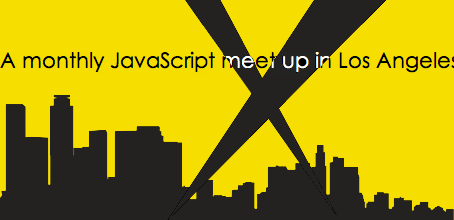
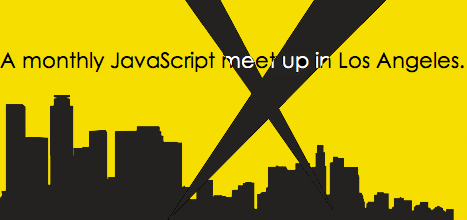
Fixed Contact page image cut-off, removed canceled speaker from Past Events

diff --git a/past-events.html b/past-events.html
@@ -92,20 +92,6 @@
   
     <!-- LIGHTNING SPEAKER GOES HERE -->
     <div class="lightning clearfix">
-      <img src="./images/speakers/korch.jpg" class="lightning-image" height="110px" width="110px">
-      <div class="lightning-detail">
-        <h1>Masterplate: How to Get Off Templates</h1>
-        <h2>Rodney Koch <a href="">@korch</a>
-          <!-- ADD PRESENTATION LINK HER -->      
- 
-        </h2>
-        <p><span class="emphasis">No description given.</span></p>
-      </div>
-    </div>
-    <!-- END OF EVENT BLOCK, COPY PAST THE PREVIOUS BLOCK TO ADD A NEW ONE -->
-
-    <!-- LIGHTNING SPEAKER GOES HERE -->
-    <div class="lightning clearfix">
       <img src="./images/speakers/dmvaldman.jpg" class="lightning-image" height="110px" width="110px">
       <div class="lightning-detail">
         <h1>Streamlining Client Side JS Development</h1>

diff --git a/stylesheet.css b/stylesheet.css
@@ -126,7 +126,7 @@ header {
   position: absolute;
   left: 0px;
   top: 0px;
-  width: 453px;
+  width: 467px;
   height: 220px;
   background-image: url("./images/skyline-contact.png");
   background-repeat: none;
